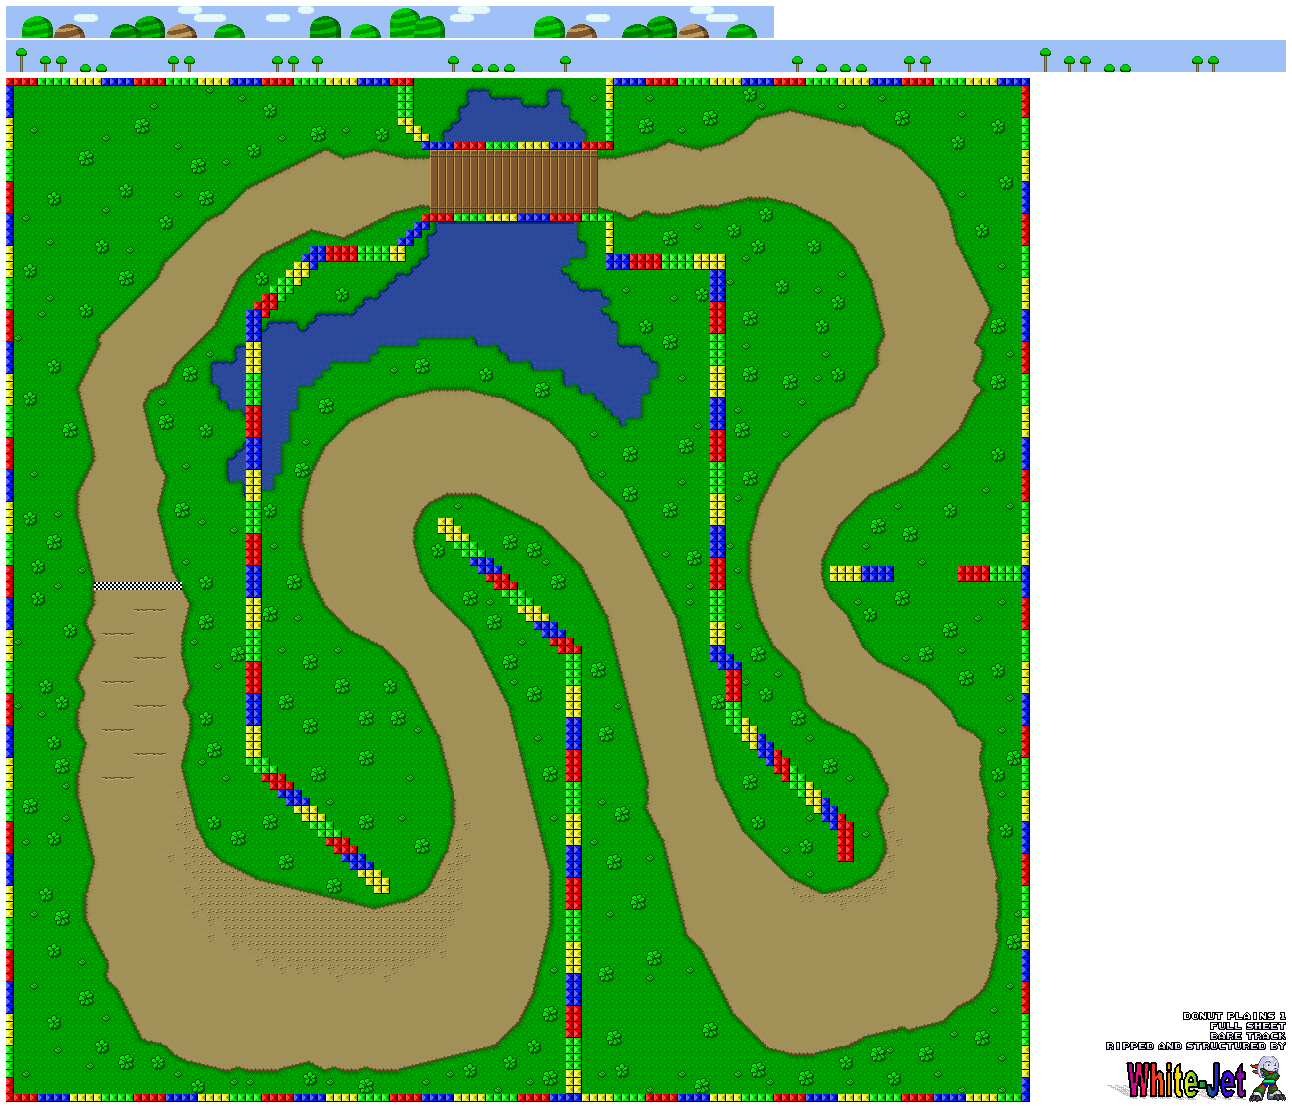
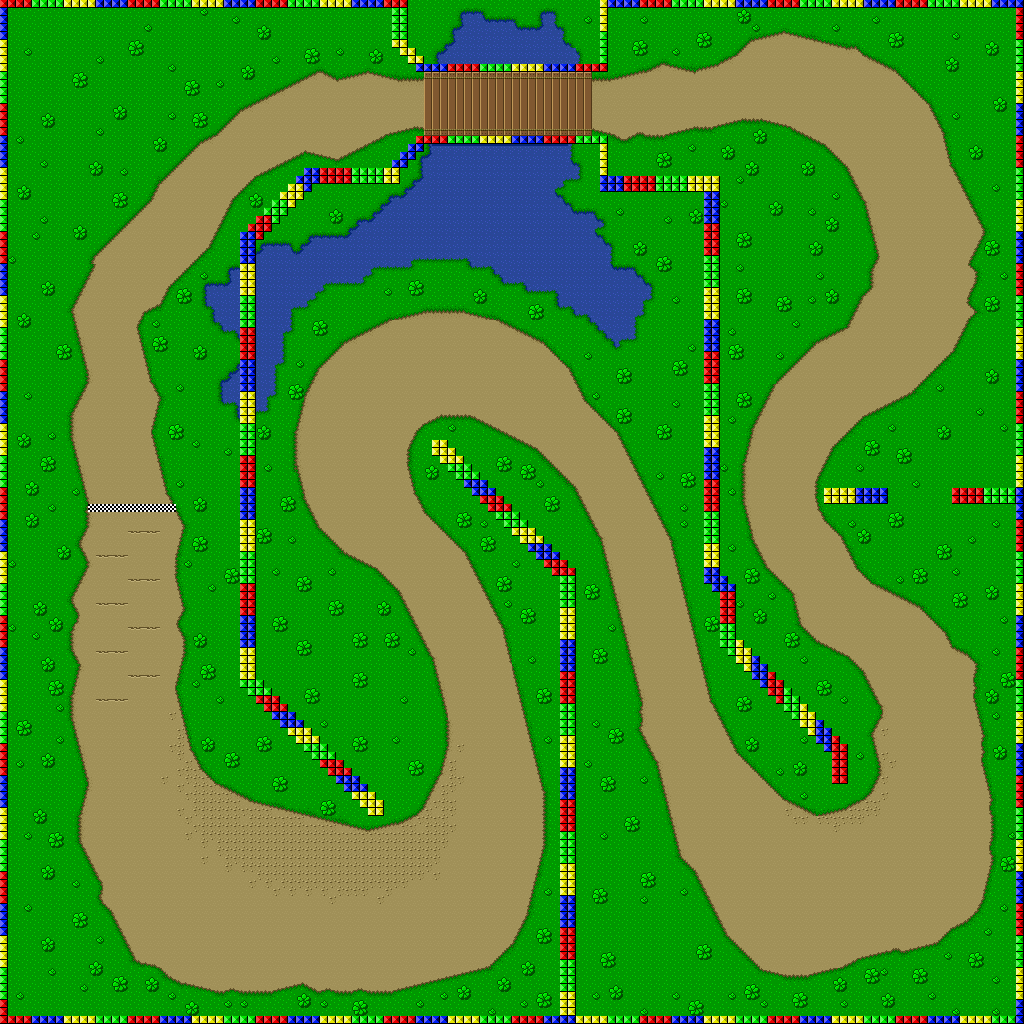
Collission

diff --git a/src/states/mode7test.cpp b/src/states/mode7test.cpp
@@ -1,9 +1,13 @@
 #include "mode7test.h"
+#include <iostream>
+#include <fstream>
 
 void StateMode7Test::init() {
+    playerX = START_POS_X;
+    playerY = START_POS_Y;
     posX = 0.0f;
     posY = 0.0f;
-    posAngle = 0.0f;
+    posAngle = START_POS_ANGLE;
     fovHalf = 0.4f;
     clipNear = 0.0005f;
     clipFar = 0.045f;
@@ -15,8 +19,18 @@ void StateMode7Test::init() {
     leftPressed = false;
     rightPressed = false;
 
-    assetImageBottom.loadFromFile("assets/mario_circuit_2.png");
+    assetImageBottom.loadFromFile("assets/kart_map.png");
     assetImageTop.loadFromFile("assets/sky.jpeg");
+
+    std::ifstream assetLandFile ("assets/kart_map.txt");
+    for (int y = 0; y < TILES_HEIGHT; y++) {
+        char c;
+        for (int x = 0; x < TILES_WIDTH; x++) {
+            assetLandFile >> c;
+            assetLand[y][x] = Land(c - '0');
+        }
+        // assetLandFile >> c;
+    }
 }
 
 void StateMode7Test::handleEvent(const sf::Event& event) {
@@ -53,10 +67,54 @@ void StateMode7Test::fixedUpdate(const sf::Time& deltaTime) {
     if (rightPressed) {
         speedTurn = std::fminf(speedTurn + 0.2f, 1.0f);
     }
+
+    float lastX = playerX;
+    float lastY = playerY;
+
     // Speed & rotation changes
     posAngle += speedTurn * deltaTime.asSeconds();
-    posX += cosf(posAngle) * speedForward * deltaTime.asSeconds();
-    posY += sinf(posAngle) * speedForward * deltaTime.asSeconds();
+    playerX += cosf(posAngle) * speedForward * deltaTime.asSeconds();
+    playerY += sinf(posAngle) * speedForward * deltaTime.asSeconds();
+
+    if (assetLand[int(playerY * TILES_HEIGHT)][int(playerX * TILES_WIDTH)] == Land::BLOCK) {
+        playerX = lastX;
+        playerY = lastY;
+    }
+
+    posX = playerX - cosf(posAngle) * (CAM_2_PLAYER_DST / ASSETS_WIDTH);
+    posY = playerY - sinf(posAngle) * (CAM_2_PLAYER_DST / ASSETS_HEIGHT);
+
+    // std::cerr << int(posX * 128) << " " << int(posY * 128)
+    //     << ": " << int(assetLand[int(posY * 128)][int(posX * 128)]) << std::endl;
+    
+    // int landOriginX = int(lastPosX * 128);
+    // int landOriginY = int(lastPosY * 128);
+    // int landDestinyX = int(posX * 128);
+    // int landDestinyY = int(posY * 128);
+    // int distanceX = (landOriginX <= landDestinyX) ? 
+    //     landDestinyX - landOriginX :
+    //     landOriginX - landDestinyX;
+    // int distanceY = (landOriginY <= landDestinyY) ? 
+    //     landDestinyY - landOriginY :
+    //     landOriginY - landDestinyY;
+    // int landMaxDistance = std::max(distanceX, distanceY);
+    // float stepX = (posX - lastPosX) / float(landMaxDistance);
+    // float stepY = (posX - lastPosY) / float(landMaxDistance);
+
+    // float landX = landOriginX;
+    // float landY = landOriginY;
+    // while(landX < landDestinyX || landY < landDestinyY) {
+    //     if (assetLand[int(landY)][int(landX)] == Land::BLOCK) {
+    //         std::cerr << "OUT" << std::endl;
+    //         posX = landX / 128.0f;
+    //         posY = landY / 128.0f;
+    //         break;
+    //     }
+    //     landX += stepX;
+    //     landY += stepY;
+    // }
+    // std::cerr << landOriginX << " " << landOriginY << std::endl;
+    // std::cerr << posX << " " << posY << std::endl;
 }
 
 void StateMode7Test::draw(sf::RenderTarget& window) {

diff --git a/src/states/mode7test.h b/src/states/mode7test.h
@@ -1,17 +1,35 @@
 #pragma once
 
+#define _USE_MATH_DEFINES
 #include <cmath>
 #include "game.h"
 #include "states/statebase.h"
 
 class StateMode7Test : public State {
    private:
+    static constexpr int ASSETS_WIDTH = 1024;
+    static constexpr int ASSETS_HEIGHT = 1024;
+    static constexpr int TILE_SIZE = 8;
+    static constexpr int TILES_WIDTH = ASSETS_WIDTH / TILE_SIZE;
+    static constexpr int TILES_HEIGHT = ASSETS_HEIGHT / TILE_SIZE;
+    static constexpr float START_POS_X = 143.0f / ASSETS_WIDTH;
+    static constexpr float START_POS_Y = 543.0f / ASSETS_HEIGHT;
+    static constexpr float START_POS_ANGLE = -M_PI_2;
+    static constexpr float CAM_2_PLAYER_DST = 56.0f;
+
+    float playerX, playerY;      // Player position (reuses posAngle)
     float posX, posY, posAngle;  // 3 grados de libertad en 2D
     float fovHalf;               // player's field of view
     float clipNear, clipFar;     // view frustrum's near and far planes distance
 
     float speedForward, speedTurn;
     sf::Image assetImageBottom, assetImageTop;
+    enum class Land : uint8_t {
+        TRACK,
+        BLOCK,
+        OUTER
+    };
+    Land assetLand[128][128];
 
     bool leftPressed, rightPressed, forwardPressed;
 
